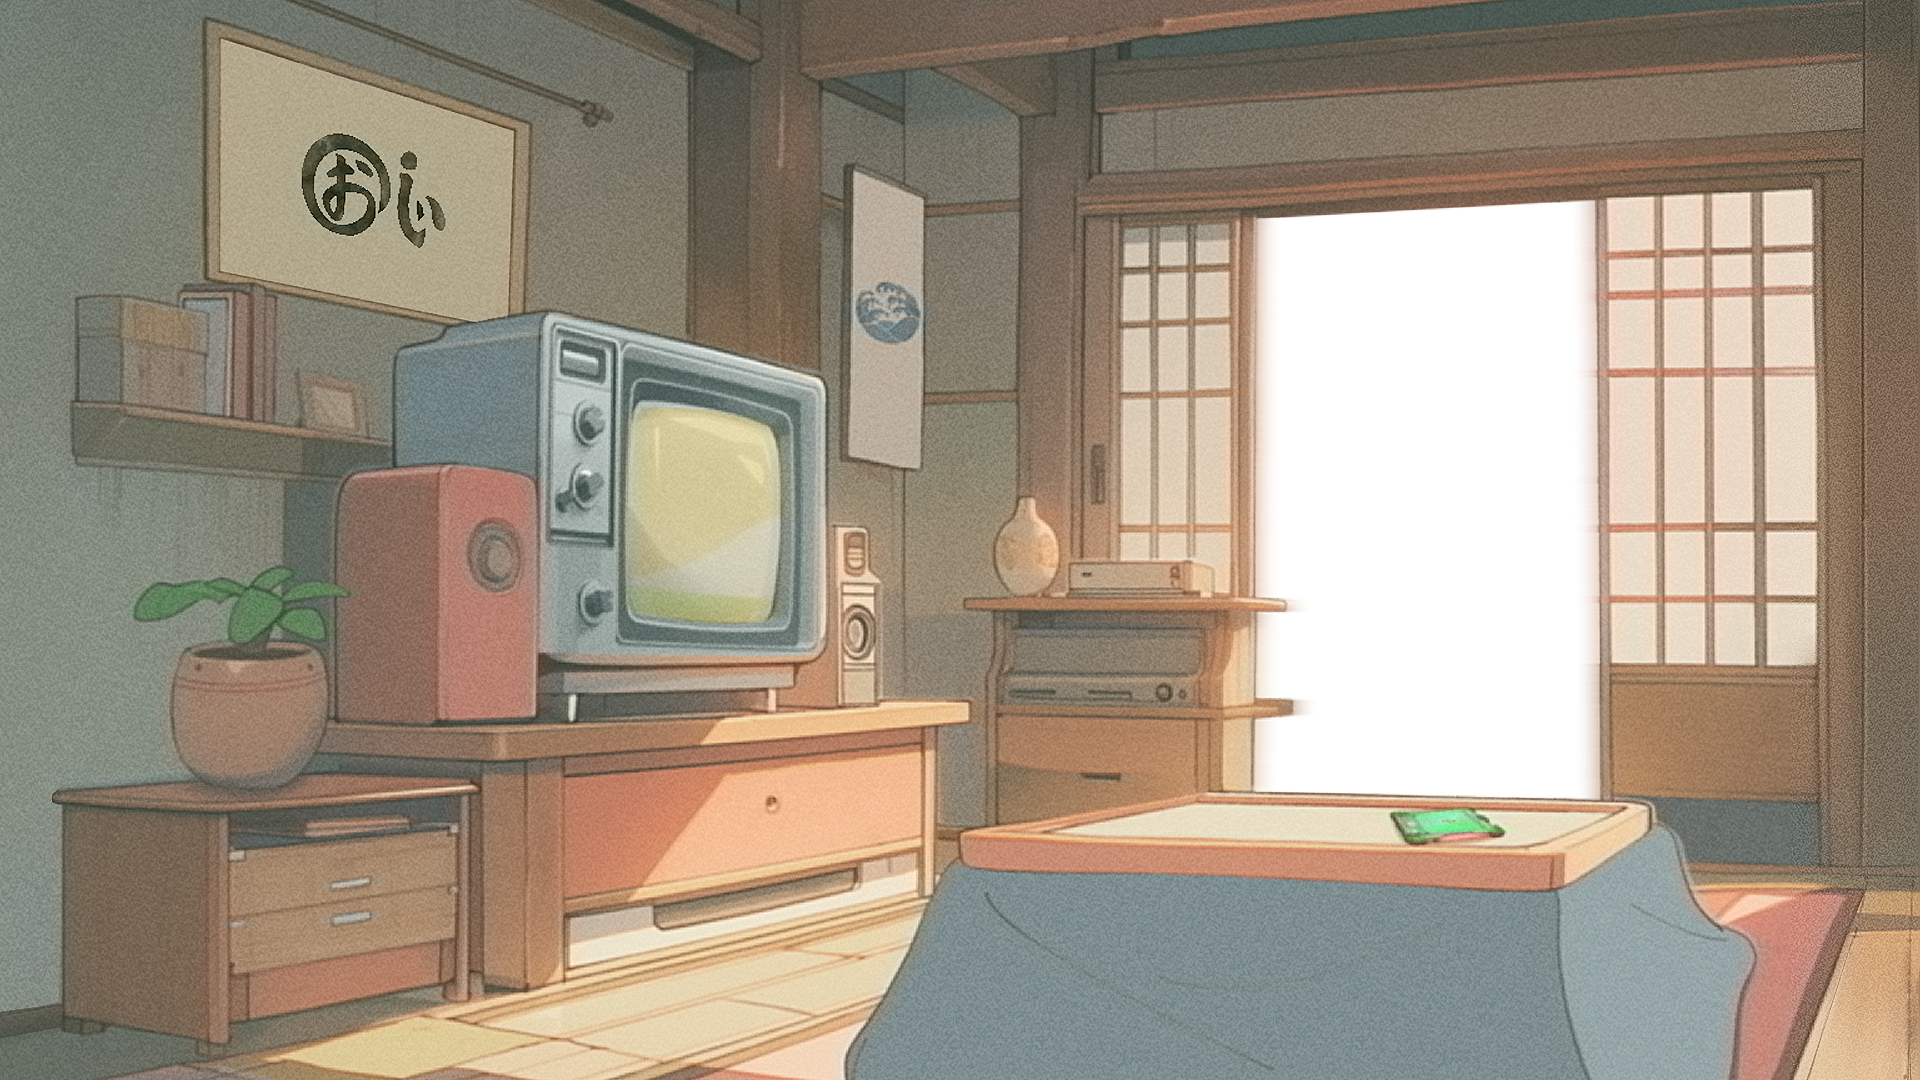
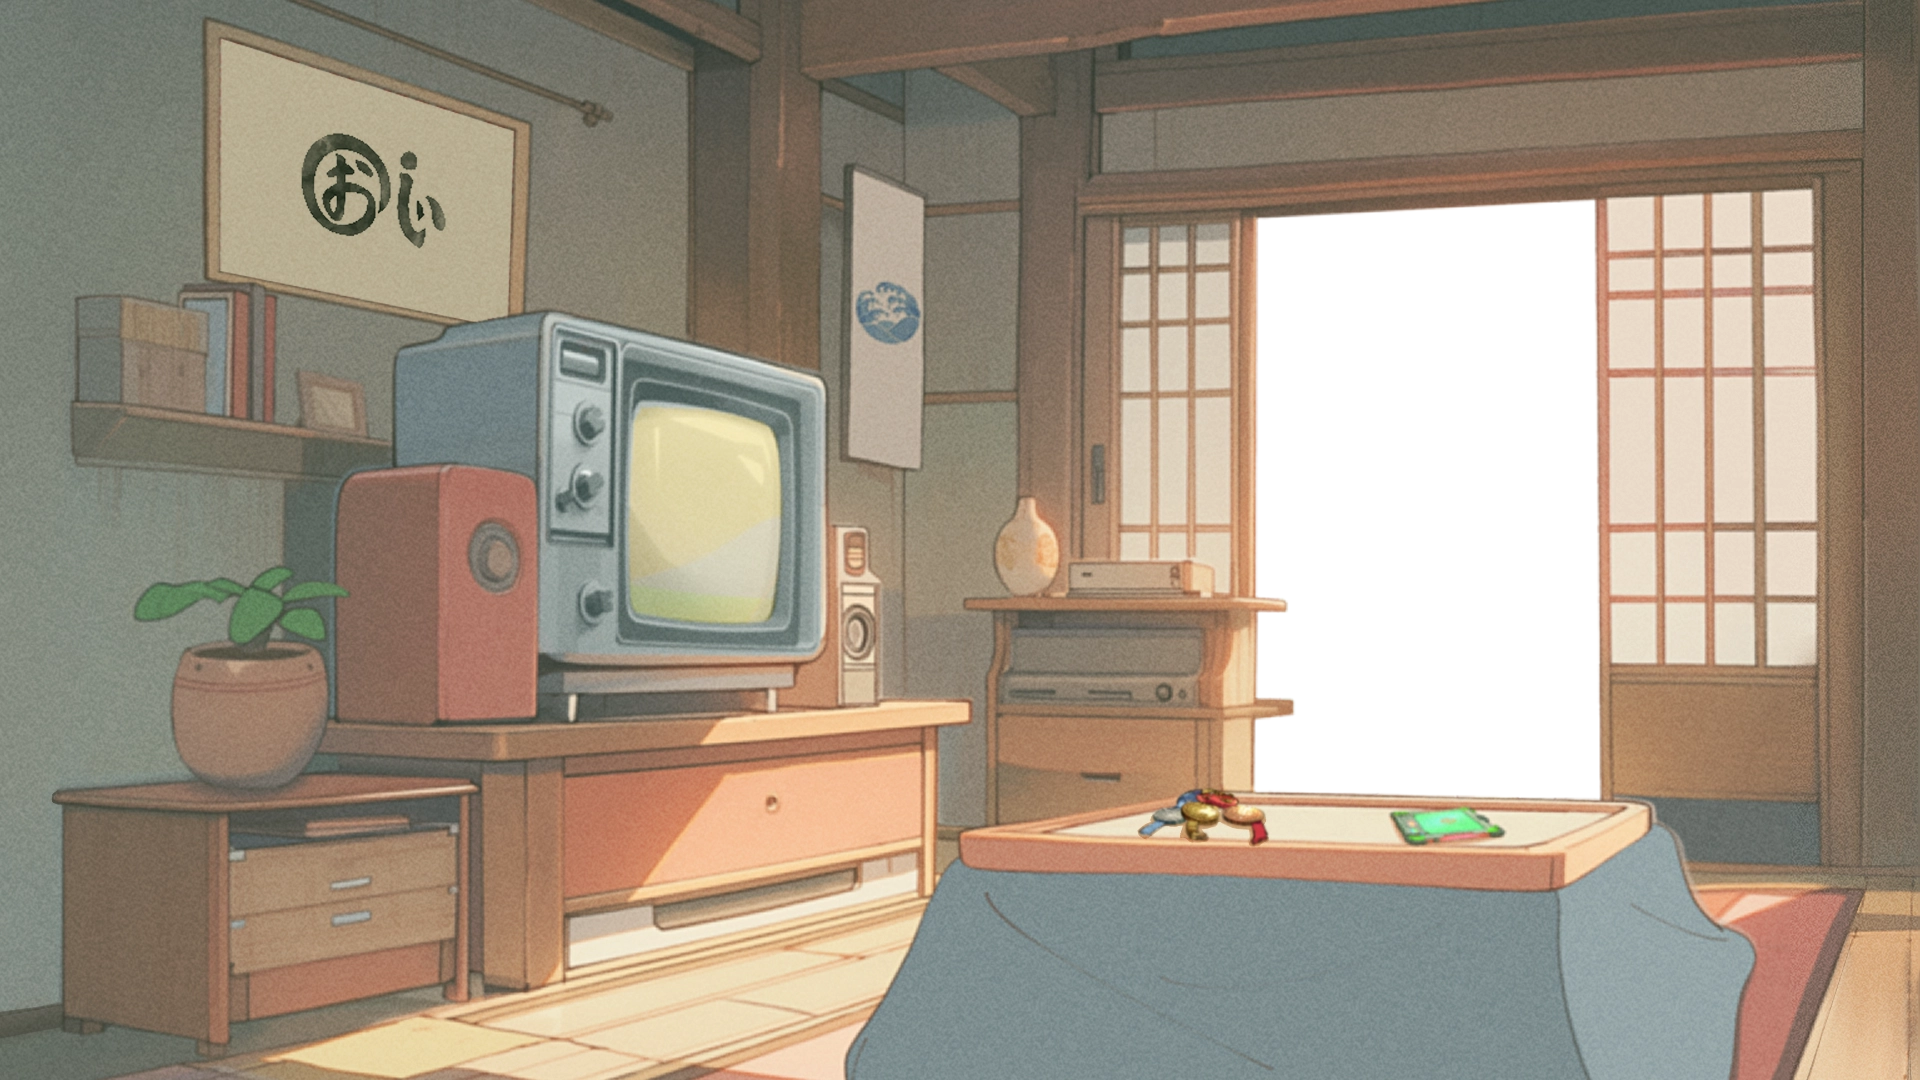
feat: 배경에 메달 추가

diff --git a/pages/index.tsx b/pages/index.tsx
@@ -21,6 +21,7 @@ export default function Home() {
 
   const [computerHoverDay, setComputerHoverDay] = useState(0);
   const [tabHoverDay, setTabHoverDay] = useState(0);
+  const [medalHoverDay, setMedalHoverDay] = useState(0);
 
   const videoRef = useRef<HTMLVideoElement | null>(null);
 
@@ -135,6 +136,23 @@ export default function Home() {
           >
             <div className="w-10 h-10 animate-ping duration-300 ease-linear absolute top-0 rounded-full left-0 bg-[#ffffff61]"></div>
             <div className="w-10 h-10 relative z-10 hover:cursor-custom rounded-full bg-[#0000006f]"></div>
+          </div>
+          <Image
+            alt=""
+            className="absolute medal z-30"
+            src={"/desktop/d_medal_cut_outline.webp"}
+            width={600}
+            style={{ opacity: medalHoverDay }}
+            onMouseEnter={() => setMedalHoverDay(1)}
+            onMouseLeave={() => setMedalHoverDay(0)}
+            height={600}
+          />
+          <div
+            onMouseEnter={() => setMedalHoverDay(1)}
+            className="absolute  medal_top  z-40"
+          >
+            <div className="w-5 h-5 animate-ping duration-300 ease-linear absolute top-0 rounded-full left-0 bg-[#ffffffad]"></div>
+            <div className="w-5 h-5 relative z-10 hover:cursor-custom rounded-full bg-[#0000006f]"></div>
           </div>
           <Image
             alt=""

diff --git a/styles/globals.css b/styles/globals.css
@@ -69,6 +69,12 @@ video::-webkit-media-controls {
   /* transform: scale(1.01); */
 }
 
+.medal {
+  opacity: 0;
+  transition: 0.4s ease-in-out all;
+  cursor: url("https://res.cloudinary.com/dr4ka7tze/image/upload/v1714445271/cursor_1_s3tcnc.png"), auto;
+}
+
 .tablet {
   opacity: 0;
   transition: 0.4s ease-in-out all;
@@ -105,6 +111,11 @@ video::-webkit-media-controls {
   width: 8.1%;
   right: 20.85%;
   bottom: 18.5%;
+}
+.medal {
+  width: 9.1%;
+  right: 33%;
+  bottom: 20%;
 }
 .space_vid {
   width: 24.5%;
@@ -148,10 +159,17 @@ video::-webkit-media-controls {
 .computer_top {
   left: 35%;
   top: 50%;
+  cursor: url("https://res.cloudinary.com/dr4ka7tze/image/upload/v1714445271/cursor_1_s3tcnc.png"), auto;
 }
 .tab_top {
   right: 24%;
   bottom: 23%;
+  cursor: url("https://res.cloudinary.com/dr4ka7tze/image/upload/v1714445271/cursor_1_s3tcnc.png"), auto;
+}
+.medal_top {
+  right: 36.5%;
+  bottom: 23%;
+  cursor: url("https://res.cloudinary.com/dr4ka7tze/image/upload/v1714445271/cursor_1_s3tcnc.png"), auto;
 }
 
 .items {
